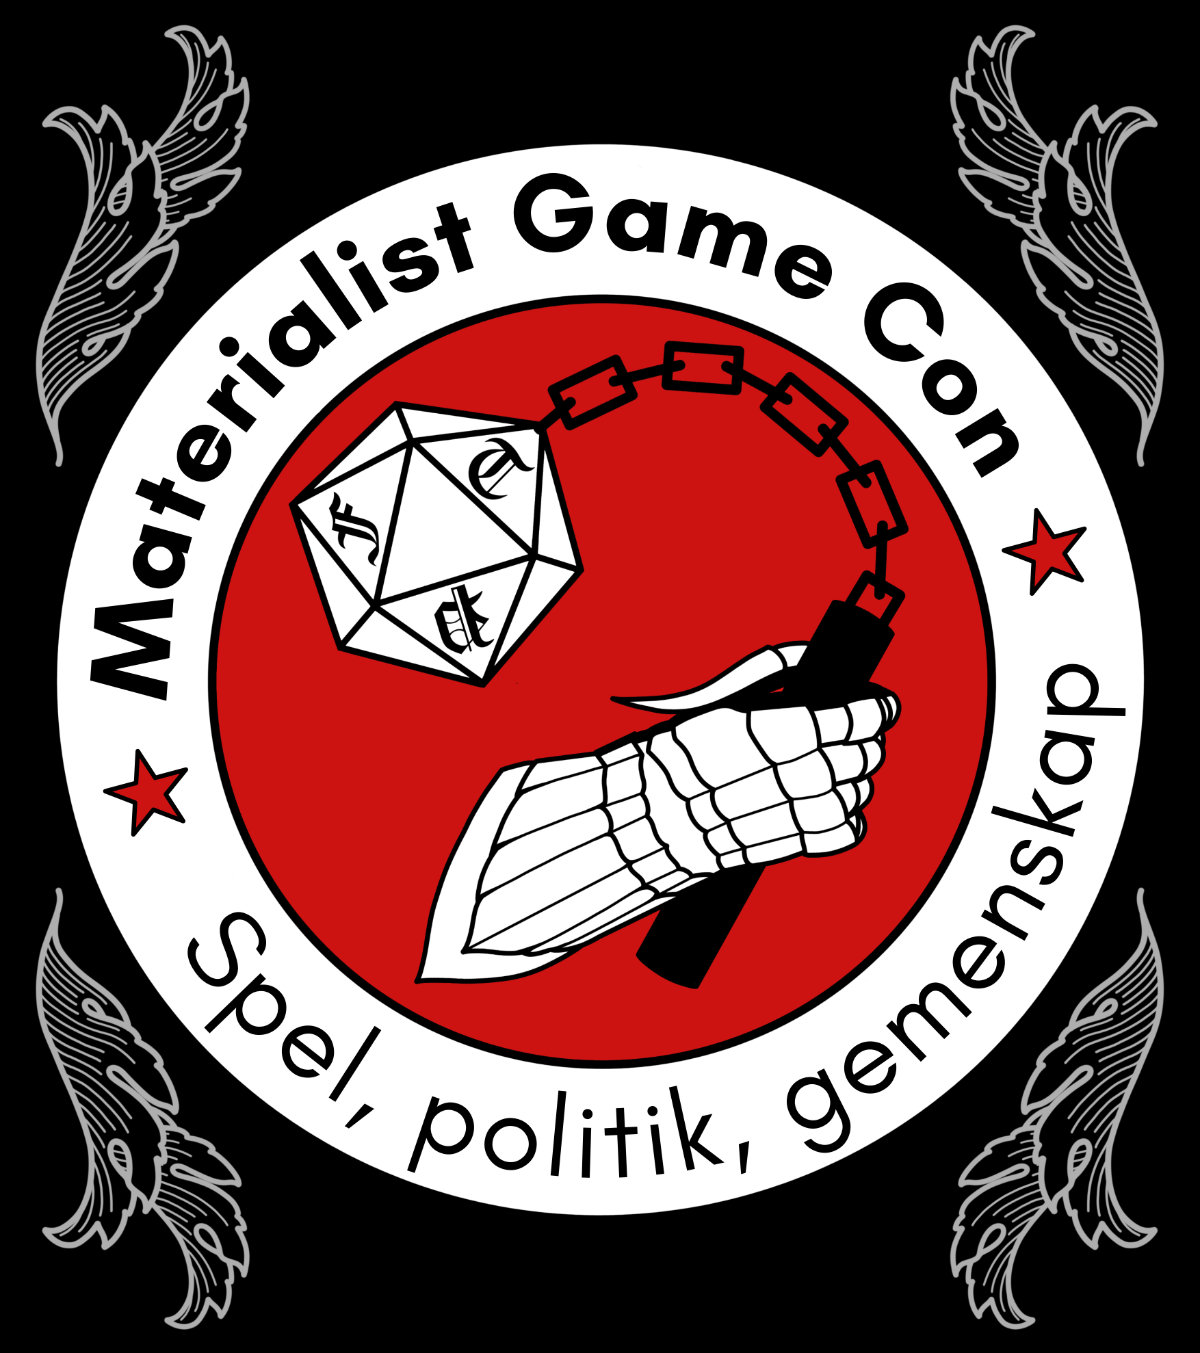
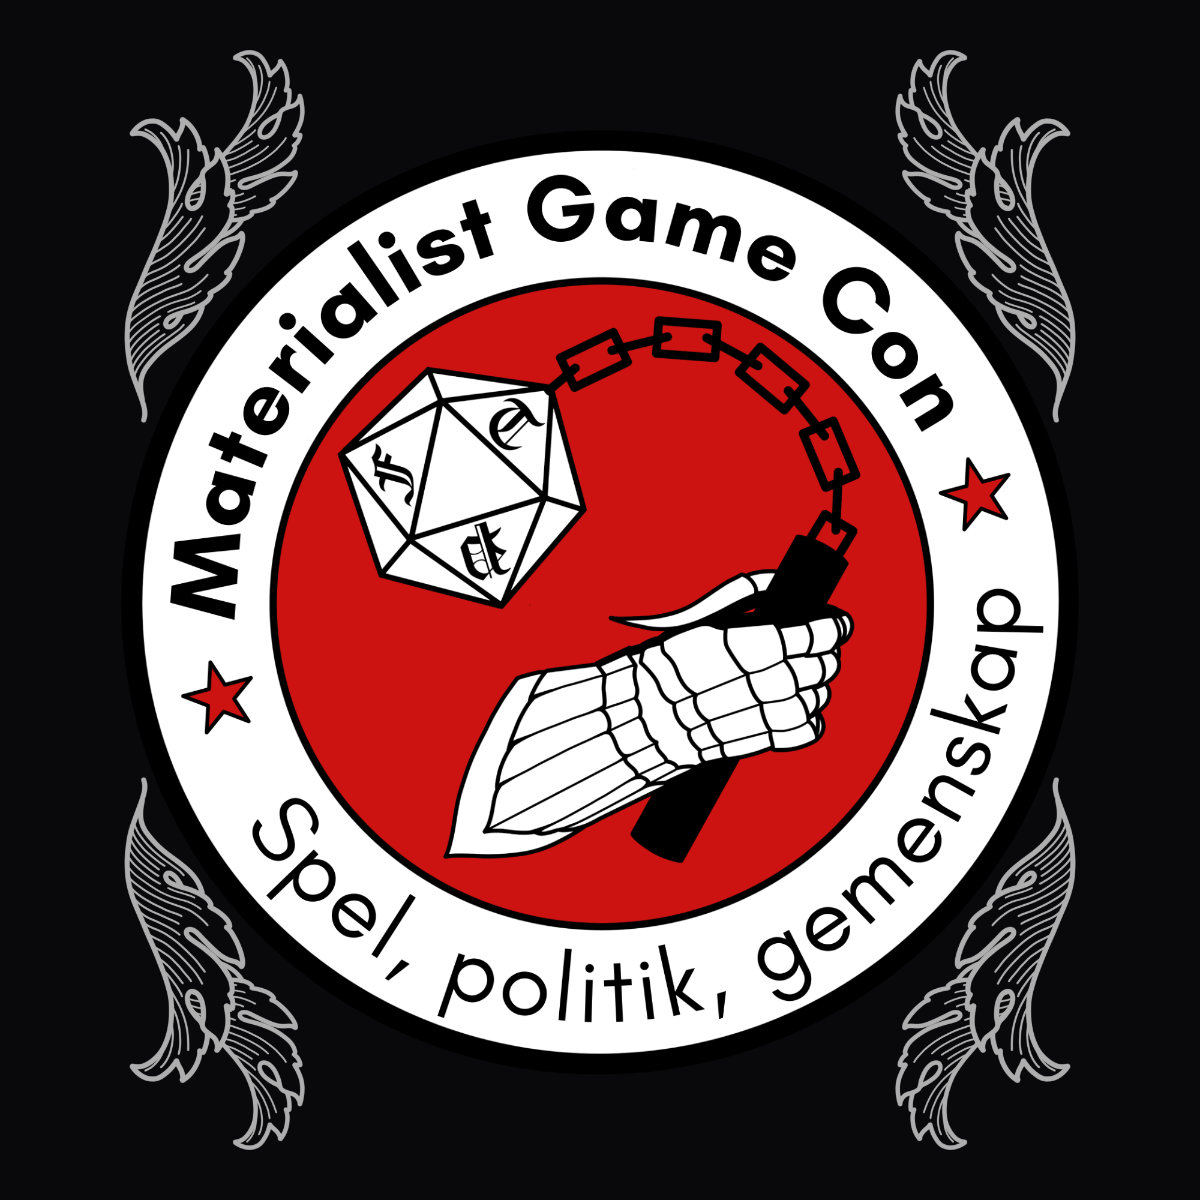
New image

diff --git a/src/app/mgc26/page.tsx b/src/app/mgc26/page.tsx
@@ -13,7 +13,7 @@ const metadata: Metadata = {
       {
         url: `https://mglabs.se/${Mgc26Logo.src}`,
         width: 1200,
-        height: 1353,
+        height: 1200,
         alt: "Materialist Game Con 2026",
       },
     ],
